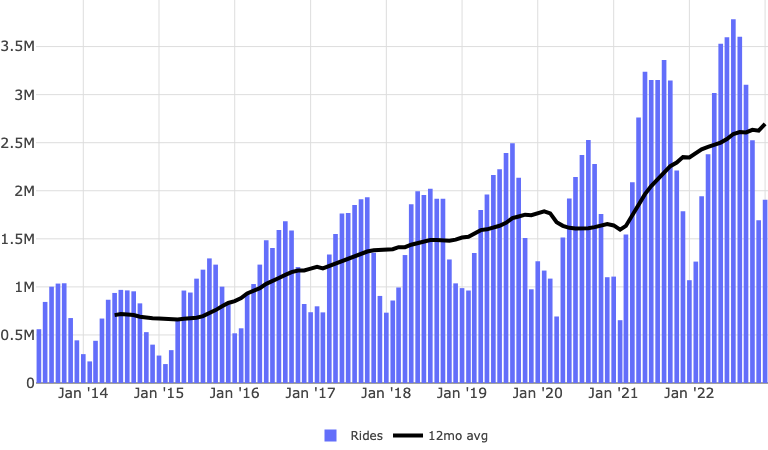
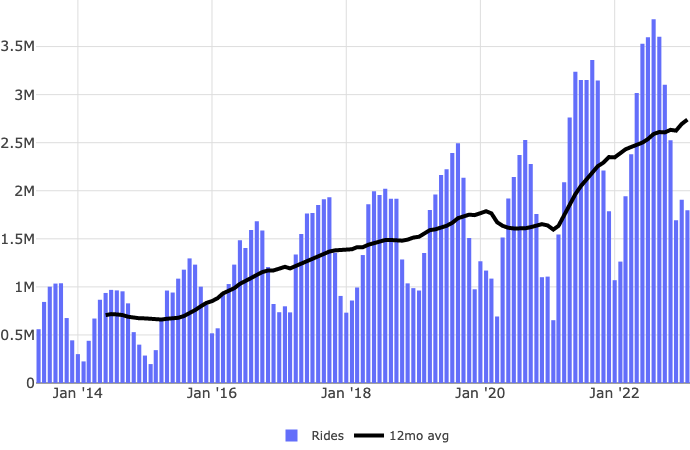
fix fallback img, add dl param

diff --git a/www/pages/index.tsx b/www/pages/index.tsx
@@ -57,6 +57,7 @@ type Params = {
     rt: Param<RideableType[]>
     d: Param<DateRange>
     avg: Param<number[]>
+    dl: Param<boolean>
 }
 
 type ParsedParams = {
@@ -69,6 +70,7 @@ type ParsedParams = {
     rt: ParsedParam<RideableType[]>
     d: ParsedParam<DateRange>
     avg: ParsedParam<number[]>
+    dl: ParsedParam<boolean>
 }
 
 type MonthVal = { m: string, v: number }
@@ -166,6 +168,7 @@ export default function App({ data, lastMonthStr }: { data: Row[], lastMonthStr:
         rt: enumMultiParam(RideableTypes, RideableTypeChars, ''),
         d: dateRangeParam(),
         avg: numberArrayParam([ 12 ]),
+        dl: boolParam,
     }
 
     const lastMonthDisplayStr = useMemo(
@@ -189,6 +192,7 @@ export default function App({ data, lastMonthStr }: { data: Row[], lastMonthStr:
         rt: [ rideableTypes, setRideableTypes ],
         d: [ dateRange, setDateRange ],
         avg: [ rollingAvgs, setRollingAvgs ],
+        dl: [ downloadPlotImage, setDownloadPlotImage ],
     }: ParsedParams = parseQueryParams({ params })
 
     let df = useMemo(
@@ -518,7 +522,6 @@ export default function App({ data, lastMonthStr }: { data: Row[], lastMonthStr:
     const height = 450
     const src = 'plot-fallback.png'
     const [ initializedPlot, setInitializedPlot ] = useState<InitializedPlot | null>(null)
-    const downloadOnInit = false
     const [ firstRender, setFirstRender ] = useState<Date>(new Date)
     const [ plotInitialized, setPlotInitialized ] = useState<PlotInitialized | null>(null)
     useEffect(
@@ -532,11 +535,11 @@ export default function App({ data, lastMonthStr }: { data: Row[], lastMonthStr:
     )
     useEffect(
         () => {
-            console.log("plotly effect:", initializedPlot, downloadOnInit)
+            console.log("plotly effect:", initializedPlot, downloadPlotImage)
             if (!initializedPlot) return
             const { figure, graphDiv, set } = initializedPlot
             if (!set) return
-            if (!downloadOnInit) return
+            if (!downloadPlotImage) return
             import('plotly.js')
                 .then(m => m.default)
                 .then(

diff --git a/www/pages/index.module.css b/www/pages/index.module.css
@@ -129,6 +129,7 @@
 }
 .fallback img {
     z-index: -1;
+    position: relative;
 }
 .plotly {
     width: 100%;
